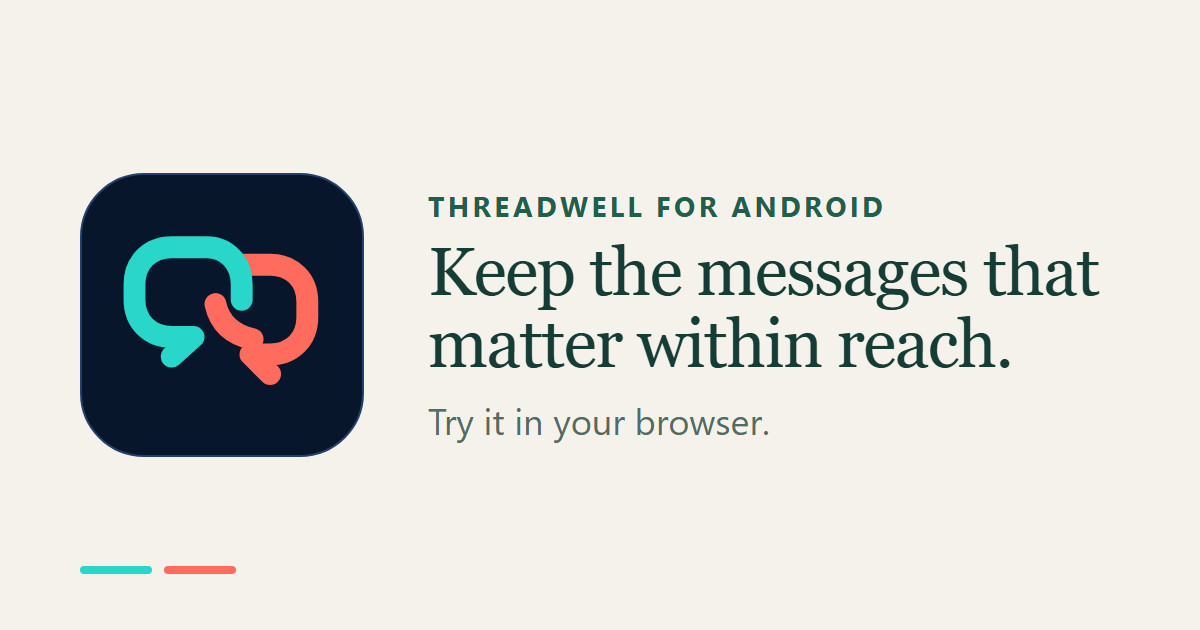
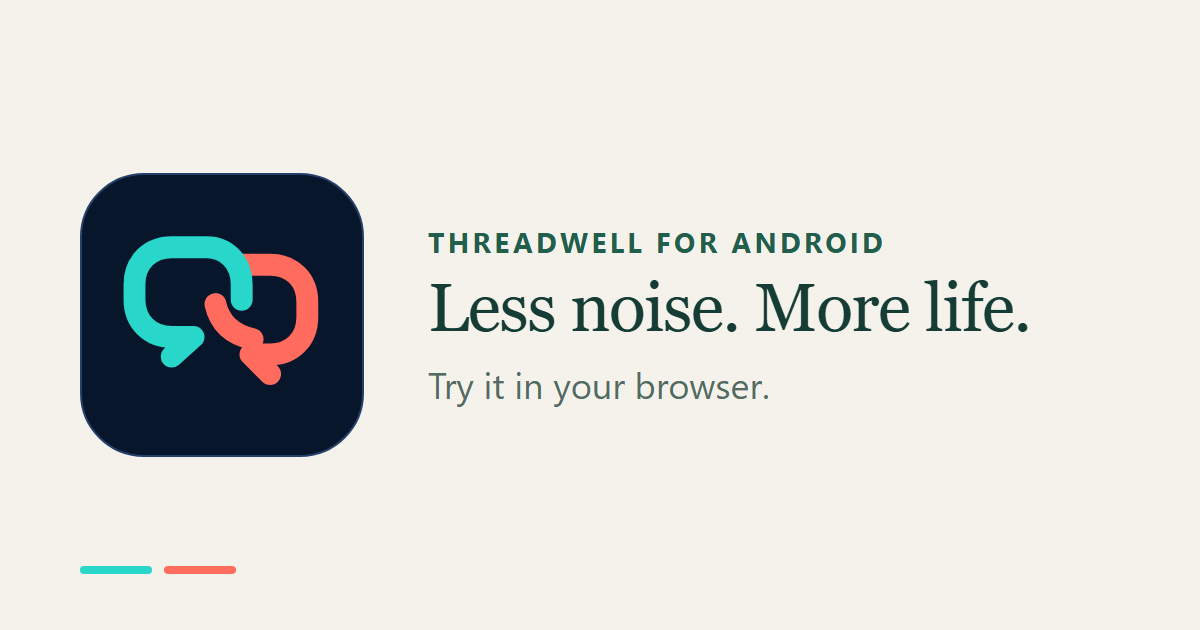
Refresh social image and page titles: Less noise. More life.

Changed region(s): [[0.3392, 0.3016, 0.925, 0.6937]]

diff --git a/index.html b/index.html
@@ -3,7 +3,7 @@
 <head>
   <meta charset="utf-8">
   <meta name="viewport" content="width=device-width, initial-scale=1">
-  <title>Threadwell: keep the messages that matter within reach</title>
+  <title>Threadwell: less noise, more life</title>
   <meta name="description" content="Threadwell is a texting app for Android that keeps your threads, plans, checklists and follow-ups within reach. Try an interactive playground in your browser, with sample messages and nothing sent.">
   <meta name="theme-color" content="#f4f2eb">
     <link rel="canonical" href="https://threadwell.github.io/">
@@ -12,14 +12,14 @@
 
   <meta property="og:type" content="website">
   <meta property="og:site_name" content="Threadwell">
-  <meta property="og:title" content="Threadwell: keep the messages that matter within reach">
+  <meta property="og:title" content="Threadwell: less noise, more life">
   <meta property="og:description" content="A texting app for Android. Try making a checklist, changing the theme or exploring Spaces in an interactive browser playground.">
   <meta property="og:image" content="https://threadwell.github.io/assets/og-image.png">
   <meta property="og:image:width" content="1200">
   <meta property="og:image:height" content="630">
-  <meta property="og:image:alt" content="The Threadwell woven speech bubble mark beside the words Threadwell, keep the messages that matter within reach">
+  <meta property="og:image:alt" content="The Threadwell woven speech bubble mark beside the words Threadwell, less noise, more life">
   <meta name="twitter:card" content="summary_large_image">
-  <meta name="twitter:title" content="Threadwell: keep the messages that matter within reach">
+  <meta name="twitter:title" content="Threadwell: less noise, more life">
   <meta name="twitter:description" content="A texting app for Android. Try an interactive playground in your browser.">
   <meta name="twitter:image" content="https://threadwell.github.io/assets/og-image.png">
 

diff --git a/tools/og.html b/tools/og.html
@@ -17,6 +17,6 @@
     <path d="M61,31h15c10,0 17,7 17,17v7c0,10 -7,17 -17,17h-9l9,9" stroke="#ff6b5c"/>
     <path d="M47,23h-16c-10,0 -17,7 -17,17v7c0,10 7,17 17,17h10l-10,9M47,23c9,0 16,7 16,17v7" stroke="#28d7c9"/>
     <path d="M51,49c2,9 8,14 17,16" stroke="#ff6b5c"/></svg></div>
-  <div><div class="eyebrow">Threadwell for Android</div><h1>Keep the messages that matter within reach.</h1><p>Try it in your browser.</p></div>
+  <div><div class="eyebrow">Threadwell for Android</div><h1>Less noise. More life.</h1><p>Try it in your browser.</p></div>
   <div class="bar"><i style="background:#28d7c9"></i><i style="background:#ff6b5c"></i></div>
 </div></body></html>

diff --git a/js/app.js b/js/app.js
@@ -60,7 +60,7 @@ function route() {
   const key = isPlay ? 'explore' : isHome ? 'home' : spec.id;
   if (!isPlay && !isHome && raw !== spec.id) history.replaceState(null, '', '#' + spec.id);
   $$('.q').forEach(a => (a.dataset.id === key ? a.setAttribute('aria-current', 'page') : a.removeAttribute('aria-current')));
-  document.title = isHome ? 'Threadwell: keep the messages that matter within reach' : `${spec.title} · Threadwell help`;
+  document.title = isHome ? 'Threadwell: less noise, more life' : `${spec.title} · Threadwell help`;
   const same = isPlay && current && current.isPlay;
   if (!same) {
     current?.destroy();
